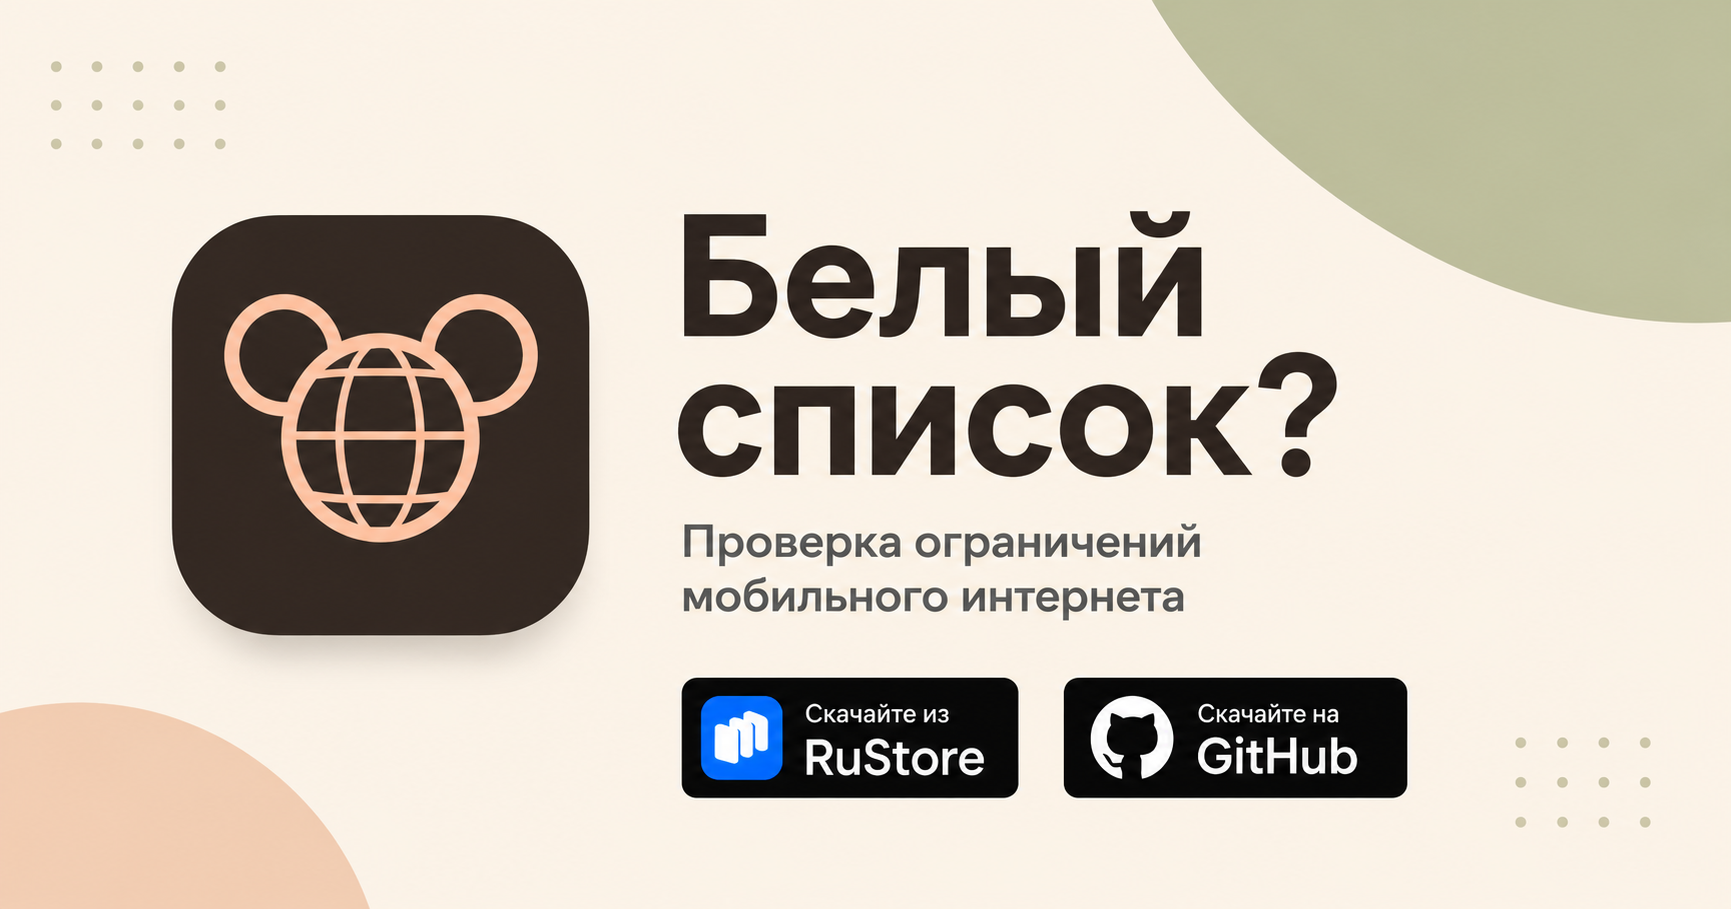
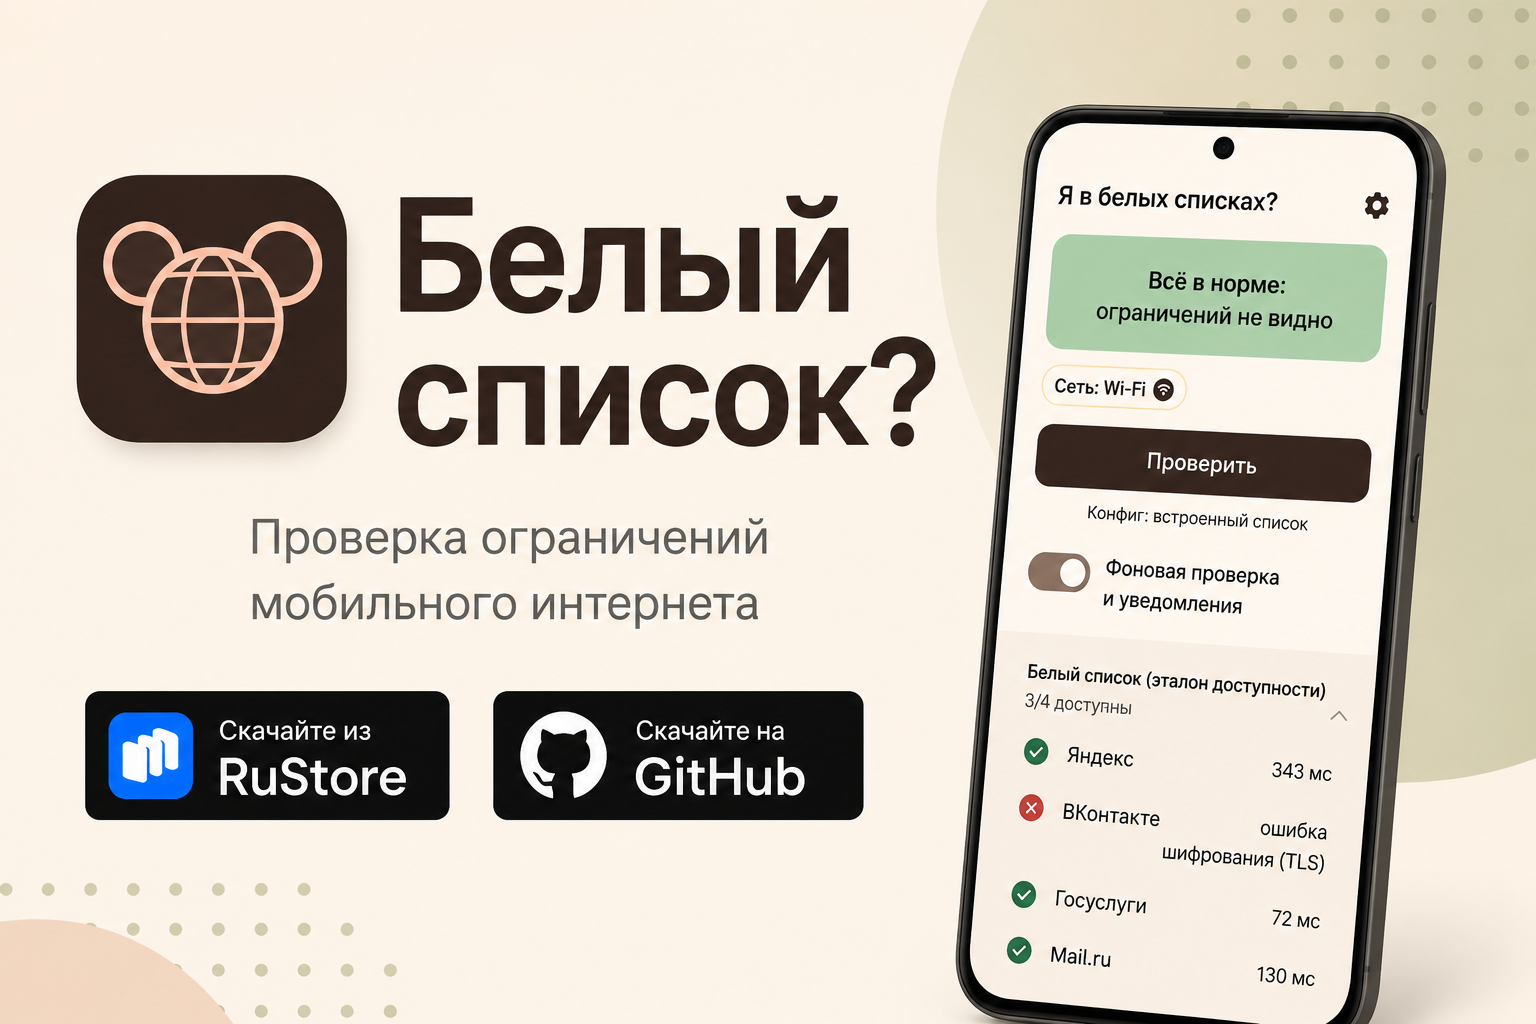
Add files via upload

diff --git a/site/styles.css b/site/styles.css
@@ -128,3 +128,97 @@ html,body{max-width:100%;overflow-x:hidden}
   .privacy h2{font-size:clamp(2.25rem,12vw,3.3rem)}
   .cta h2{font-size:clamp(2rem,9vw,2.8rem)}
 }
+
+/* Финальные правки: favicon, единая ширина блоков, карусели и закреплённая шапка */
+html{scroll-padding-top:88px}
+.site-header{
+  position:sticky;
+  top:0;
+  z-index:1000;
+  box-shadow:0 8px 24px rgba(49,40,36,.08);
+}
+.brand{cursor:pointer}
+.brand:focus-visible{outline:3px solid var(--accent);outline-offset:4px;border-radius:14px}
+
+/* Цветные нижние блоки совпадают по внешней ширине с контентом секций выше. */
+.privacy,
+.cta{
+  width:calc(100% - 48px);
+  max-width:calc(var(--max) - 48px);
+  margin-left:auto!important;
+  margin-right:auto!important;
+}
+
+@media(max-width:560px){
+  html{scroll-padding-top:78px}
+  .site-header{padding:10px 16px}
+  .brand{gap:10px}
+  .brand img{width:42px;height:42px;border-radius:11px}
+  .brand span{font-size:1rem}
+
+  /* Статичные блоки оставляют обычные поля по 20 px. */
+  .privacy,
+  .cta{
+    width:calc(100% - 40px)!important;
+    max-width:none!important;
+    margin-left:auto!important;
+    margin-right:auto!important;
+  }
+
+  /* Движущиеся ленты занимают всю ширину экрана, а карточки прокручиваются от края до края. */
+  .gallery,
+  .widget-states{
+    width:100vw!important;
+    max-width:100vw!important;
+    margin-left:calc(50% - 50vw)!important;
+    margin-right:calc(50% - 50vw)!important;
+    padding-left:20px!important;
+    padding-right:20px!important;
+    scroll-padding-left:20px!important;
+    scroll-padding-right:20px!important;
+  }
+}
+
+/* Навигация в закреплённой шапке */
+.site-header{display:block;padding:0;background:rgba(255,250,247,.96);backdrop-filter:blur(14px);-webkit-backdrop-filter:blur(14px)}
+.header-inner{width:100%;max-width:var(--max);min-height:72px;margin:0 auto;padding:10px 24px;display:flex;align-items:center;gap:24px}
+.brand{flex:0 0 auto;text-decoration:none}
+.desktop-nav{margin-left:auto;display:flex;align-items:center;gap:20px}
+.desktop-nav a{position:relative;color:var(--ink);font-size:.93rem;font-weight:650;text-decoration:none;white-space:nowrap}
+.desktop-nav a::after{content:"";position:absolute;left:0;right:0;bottom:-7px;height:2px;border-radius:2px;background:var(--brand);transform:scaleX(0);transform-origin:center;transition:transform .18s ease}
+.desktop-nav a:hover::after,.desktop-nav a:focus-visible::after{transform:scaleX(1)}
+.header-actions{display:flex;align-items:center;gap:12px}
+.header-download{display:inline-flex;align-items:center;justify-content:center;min-height:42px;padding:0 18px;border-radius:14px;background:var(--brand);color:#fff;font-size:.92rem;font-weight:750;text-decoration:none;box-shadow:0 8px 22px rgba(86,58,52,.16);transition:transform .18s ease,box-shadow .18s ease}
+.header-download:hover{transform:translateY(-1px);box-shadow:0 11px 26px rgba(86,58,52,.22)}
+.menu-toggle{display:none;width:44px;height:44px;padding:10px;border:0;border-radius:14px;background:var(--surface);cursor:pointer;align-items:center;justify-content:center;flex-direction:column;gap:5px;color:var(--ink)}
+.menu-toggle span{display:block;width:22px;height:2px;border-radius:2px;background:currentColor;transition:transform .2s ease,opacity .2s ease}
+.menu-toggle[aria-expanded="true"] span:nth-child(1){transform:translateY(7px) rotate(45deg)}
+.menu-toggle[aria-expanded="true"] span:nth-child(2){opacity:0}
+.menu-toggle[aria-expanded="true"] span:nth-child(3){transform:translateY(-7px) rotate(-45deg)}
+.mobile-menu{border-top:1px solid var(--line);background:rgba(255,250,247,.98);box-shadow:0 18px 32px rgba(49,40,36,.12);padding:10px 16px 16px}
+.mobile-menu[hidden]{display:none}
+.mobile-menu a{display:flex;align-items:center;min-height:45px;padding:0 14px;border-radius:12px;color:var(--ink);font-weight:650;text-decoration:none}
+.mobile-menu a:hover,.mobile-menu a:focus-visible{background:var(--surface)}
+.mobile-menu .mobile-download{margin-top:8px;justify-content:center;background:var(--brand);color:#fff}
+body.menu-open{overflow:hidden}
+
+@media(max-width:1080px){
+  .desktop-nav{gap:14px}
+  .desktop-nav a{font-size:.86rem}
+  .header-download{padding:0 14px}
+}
+
+@media(max-width:900px){
+  .header-inner{min-height:68px;padding:9px 18px}
+  .desktop-nav{display:none}
+  .header-actions{margin-left:auto}
+  .menu-toggle{display:flex}
+  .header-download{display:none}
+}
+
+@media(max-width:560px){
+  .header-inner{min-height:62px;padding:8px 14px}
+  .menu-toggle{width:42px;height:42px}
+  .mobile-menu{padding-left:12px;padding-right:12px}
+}
+@media(max-width:900px){.site-header .mobile-menu:not([hidden]){display:block}}

diff --git a/site/index.html b/site/index.html
@@ -10,21 +10,25 @@
   <meta name="robots" content="index,follow,max-image-preview:large">
   <meta name="theme-color" content="#563a34">
   <link rel="canonical" href="https://belyjspisok.ru/">
-  <link rel="icon" href="assets/icon.png" type="image/png">
-  <link rel="apple-touch-icon" href="assets/icon.png">
-  <link rel="manifest" href="site.webmanifest">
+  <link rel="icon" href="/favicon.ico" sizes="any">
+  <link rel="icon" type="image/png" sizes="32x32" href="/favicon-32x32.png">
+  <link rel="icon" type="image/png" sizes="48x48" href="/favicon-48x48.png">
+  <link rel="apple-touch-icon" sizes="180x180" href="/apple-touch-icon.png">
+  <link rel="manifest" href="/site.webmanifest">
 
   <meta property="og:type" content="website">
   <meta property="og:locale" content="ru_RU">
   <meta property="og:title" content="Белый список? — проверка ограничений мобильного интернета">
   <meta property="og:description" content="Одно нажатие — и вы узнаете: включён белый список, пропал интернет или всё работает нормально.">
   <meta property="og:url" content="https://belyjspisok.ru/">
-  <meta property="og:image" content="https://belyjspisok.ru/assets/screenshots/screen-4.png">
+  <meta property="og:image" content="https://belyjspisok.ru/assets/og-image.png">
+  <meta property="og:image:width" content="1200">
+  <meta property="og:image:height" content="630">
   <meta property="og:image:alt" content="Экран приложения «Белый список?» с результатом проверки интернета">
   <meta name="twitter:card" content="summary_large_image">
 
   <link rel="preload" href="assets/icon.png" as="image">
-  <link rel="stylesheet" href="styles.css?v=20260720-final">
+  <link rel="stylesheet" href="styles.css?v=20260722-menu1">
 
   <script type="application/ld+json">
   {
@@ -62,17 +66,37 @@
 </head>
 <body>
   <header class="site-header">
-    <a class="brand" href="#top" aria-label="Белый список? — на главную">
-      <img src="assets/icon.png" width="48" height="48" alt="Иконка приложения «Белый список?»">
-      <span>Белый список?</span>
-    </a>
-    <nav aria-label="Основная навигация">
-      <a href="#features">Возможности</a>
+    <div class="header-inner">
+      <a class="brand" href="#top" aria-label="Белый список? — вернуться в начало страницы" title="Вернуться в начало">
+        <img src="assets/icon.png" width="48" height="48" alt="Иконка приложения «Белый список?»">
+        <span>Белый список?</span>
+      </a>
+
+      <nav class="desktop-nav" aria-label="Основная навигация">
+        <a href="#features">Когда пригодится</a>
+        <a href="#how">Как работает</a>
+        <a href="#widget">Виджет</a>
+        <a href="#screens">Интерфейс</a>
+        <a href="#tv">Android TV</a>
+        <a href="#faq">FAQ</a>
+      </nav>
+
+      <div class="header-actions">
+        <a class="header-download" href="#download">Скачать</a>
+        <button class="menu-toggle" type="button" aria-expanded="false" aria-controls="mobile-menu" aria-label="Открыть меню">
+          <span></span><span></span><span></span>
+        </button>
+      </div>
+    </div>
+
+    <nav id="mobile-menu" class="mobile-menu" aria-label="Мобильная навигация" hidden>
+      <a href="#features">Когда пригодится</a>
       <a href="#how">Как работает</a>
       <a href="#widget">Виджет</a>
-      <a href="#screens">Скриншоты</a>
+      <a href="#screens">Интерфейс</a>
       <a href="#tv">Android TV</a>
-      <a href="#faq">Вопросы</a>
+      <a href="#faq">FAQ</a>
+      <a class="mobile-download" href="#download">Скачать приложение</a>
     </nav>
   </header>
 
@@ -94,7 +118,7 @@
       </div>
       <div class="hero-media">
         <div class="glow"></div>
-        <img src="assets/screenshots/screen-4.png" alt="Приложение сообщает, что ограничений мобильного интернета не видно" width="1080" height="1920">
+        <img src="assets/og-image.png" alt="Приложение сообщает, что ограничений мобильного интернета не видно" width="1080" height="1920">
       </div>
     </section>
 
@@ -236,7 +260,7 @@
       <details><summary>Можно ли проверить исходный код?</summary><p>Да. Исходный код открыт и опубликован в репозитории проекта.</p></details>
     </section>
 
-    <section class="section cta">
+    <section id="download" class="section cta">
       <img src="assets/icon.png" alt="" width="112" height="112">
       <div><h2>Узнайте, что происходит с интернетом</h2><p>Установите приложение и запустите быструю проверку сети.</p></div>
       <div class="download-row compact">
@@ -261,6 +285,6 @@
       </a>
     </div>
   </footer>
-  <script src="script.js?v=final" defer></script>
+  <script src="script.js?v=menu1" defer></script>
 </body>
 </html>

diff --git a/site/script.js b/site/script.js
@@ -1,1 +1,35 @@
-document.getElementById('year').textContent = new Date().getFullYear();
+const year = document.getElementById('year');
+if (year) year.textContent = new Date().getFullYear();
+
+const menuButton = document.querySelector('.menu-toggle');
+const mobileMenu = document.getElementById('mobile-menu');
+
+function closeMenu() {
+  if (!menuButton || !mobileMenu) return;
+  menuButton.setAttribute('aria-expanded', 'false');
+  menuButton.setAttribute('aria-label', 'Открыть меню');
+  mobileMenu.hidden = true;
+  document.body.classList.remove('menu-open');
+}
+
+if (menuButton && mobileMenu) {
+  menuButton.addEventListener('click', () => {
+    const willOpen = menuButton.getAttribute('aria-expanded') !== 'true';
+    menuButton.setAttribute('aria-expanded', String(willOpen));
+    menuButton.setAttribute('aria-label', willOpen ? 'Закрыть меню' : 'Открыть меню');
+    mobileMenu.hidden = !willOpen;
+    document.body.classList.toggle('menu-open', willOpen);
+  });
+
+  mobileMenu.querySelectorAll('a').forEach((link) => {
+    link.addEventListener('click', closeMenu);
+  });
+
+  document.addEventListener('keydown', (event) => {
+    if (event.key === 'Escape') closeMenu();
+  });
+
+  window.addEventListener('resize', () => {
+    if (window.innerWidth > 900) closeMenu();
+  });
+}